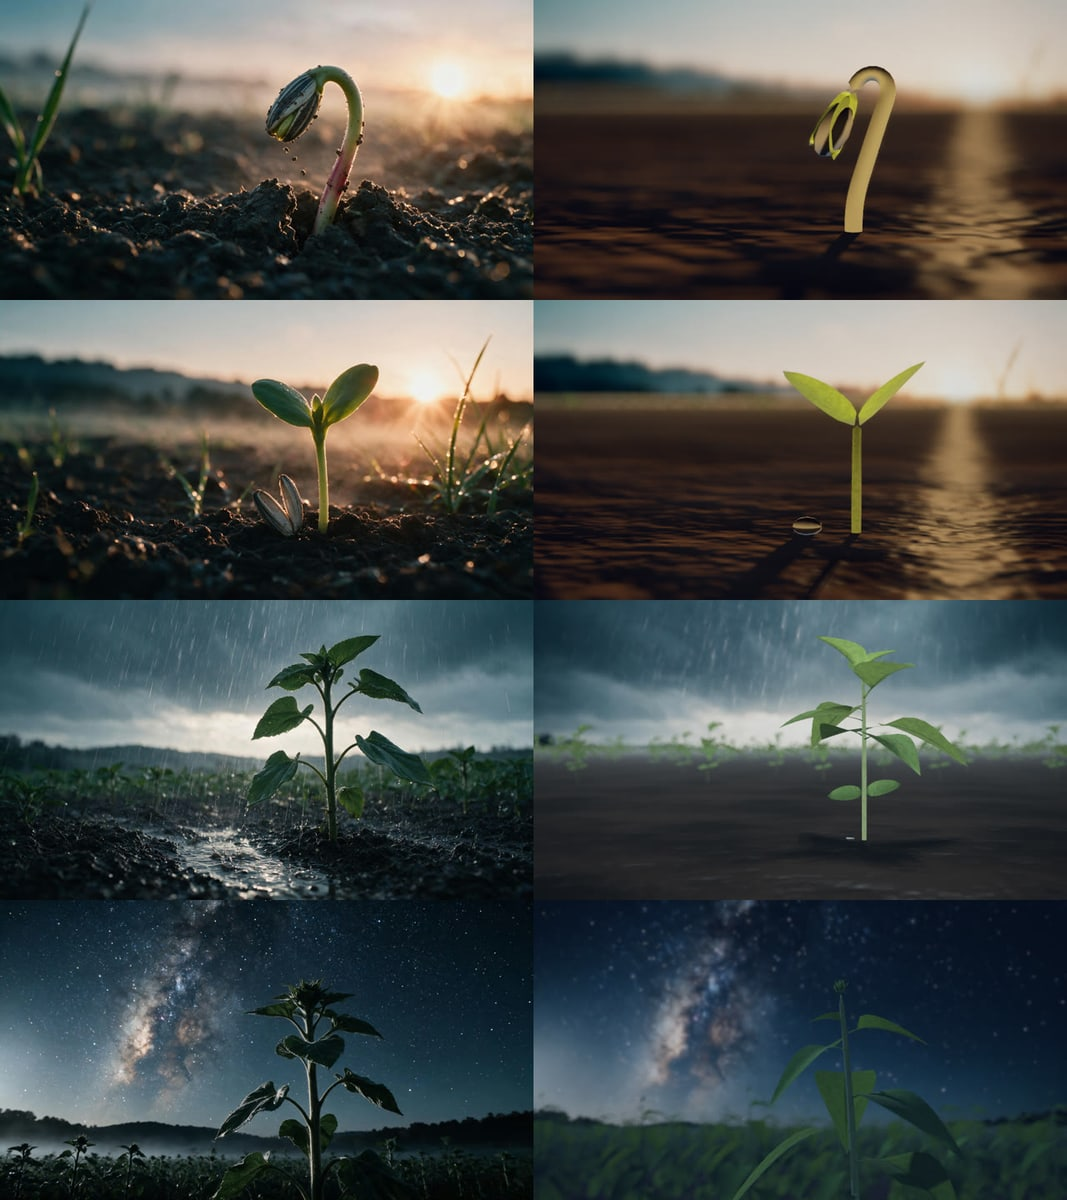
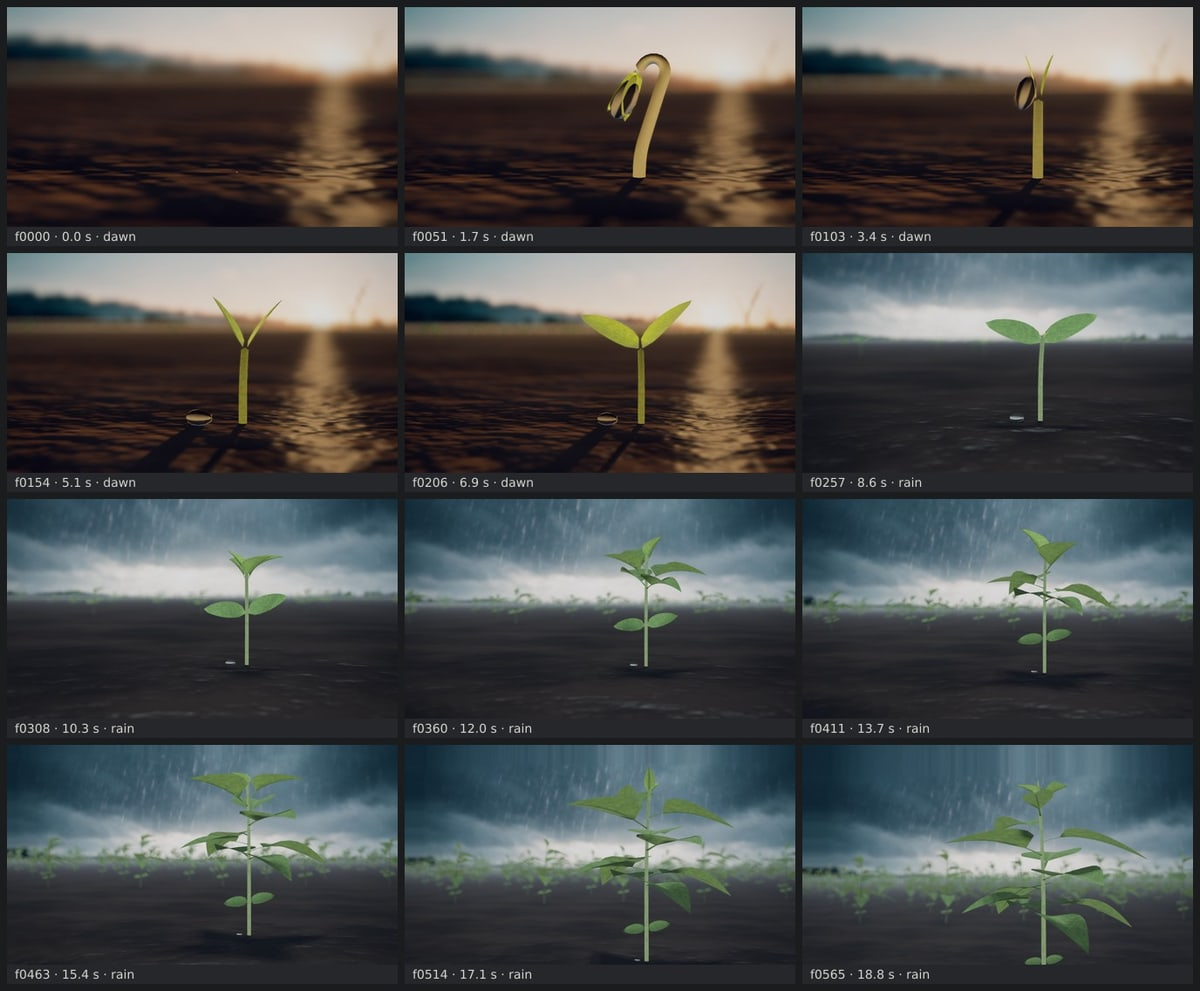
Phase 2: status 11, round 1 machine checks green

diff --git a/kit/PROGRESS.md b/kit/PROGRESS.md
@@ -14,8 +14,8 @@ The Builder's memory. Read this first in every task. Update it before every comm
 - Extensions: 0
 - Extension step: none
 - App URL: https://sunflower-film.pplx.app
-- Last push: 2026-11-21 04:16 UTC · Round 1 starts: blockout, floor round, judges 5b235aa
-- Last status: 10 · 2026-11-21 03:55 UTC · Phase 2
+- Last push: 2026-11-21 04:23 UTC · Phase 2: status 11, round 1 machine checks green
+- Last status: 11 · 2026-11-21 04:22 UTC · Phase 2 · round 1
 
 "Build" is one of `not started`, `in progress`, `complete` or `extension N in progress`. "Budget" is one of `running` or `reported`. `AGENTS.md` says what each means.
 
@@ -23,6 +23,7 @@ The Builder's memory. Read this first in every task. Update it before every comm
 
 Newest first. Each line names the pictures of one status in `out/stills/status/`, with the time and the caption, so this page shows where the film is.
 
+- 2026-11-21 04:22 UTC · status 11 · Phase 2 · round 1 · `status-1.jpg`: The film from 0 to 19 s, twelve frames in order; `status-2.jpg`: Dawn sprout, dawn seedling, rain, night: approved image left, film frame right; `status-3.jpg`: Frost, bloom opening, bloom hero, field: approved image left, film frame right
 - 2026-11-21 03:55 UTC · status 10 · Phase 2 · `status-1.jpg`: Dawn sprout, dawn seedling, rain, night: approved image left, film frame right; `status-2.jpg`: Frost, bloom opening, bloom hero, field: approved image left, film frame right
 - 2026-11-21 03:29 UTC · status 09 · Phase 2 · `status-1.jpg`: Keys 1 to 4, approved image left, film frame right: dawn-sprout, dawn-seedling, rain, night; `status-2.jpg`: Keys 5 to 8, approved image left, film frame right: frost, bloom-opening, bloom-hero, field
 - 2026-11-21 03:07 UTC · status 08 · Phase 2 · `status-1.jpg`: Keys 1 to 4, approved image left, film frame right: dawn-sprout, dawn-seedling, rain, night; `status-2.jpg`: Keys 5 to 8, approved image left, film frame right: frost, bloom-opening, bloom-hero, field
@@ -42,12 +43,12 @@ Copied from the output of `npm run clock` at every status. Working time only.
 | --- | --- | --- |
 | 0 | 1.50 h | 1.08 h |
 | 1 | 0.50 h | 0.05 h |
-| 2 | 3.50 h | 1.94 h |
+| 2 | 3.50 h | 2.39 h |
 | 3 | 9.00 h | 0.00 h |
 | 4 | 8.50 h | 0.00 h |
 | 5 | 3.00 h | 0.00 h |
 | 6 | 4.00 h | 0.00 h |
-| Whole build | 30.00 h | 3.07 h |
+| Whole build | 30.00 h | 3.52 h |
 
 Continuations and extensions are listed under this table with their own hours.
 
@@ -325,8 +326,8 @@ One entry per round, written and pushed when the round starts: number, phase, un
 
 ### Round 1 · Phase 2 · blockout · floor round
 
-- Started 2026-11-21 04:21 UTC. Judges commit `5b235aa`. Unit: none, the whole film as a blockout. Critic: R4 blockout, one fresh agent.
-- [ ] Machine checks (`npm run gate -- --phase 2 --machine`)
+- Started 2026-11-21 04:17 UTC. Judges commit `5b235aa`. Unit: none, the whole film as a blockout. Critic: R4 blockout, one fresh agent.
+- [x] Machine checks (`npm run gate -- --phase 2 --machine`): 04:20 UTC, all 12 green (G1 to G12; G12: the worst step ratio across each of the four cuts is 1.00, limit 1.5)
 - [ ] Pack (`npm run pack -- --phase 2 --round 1`)
 - [ ] R4 blockout answer in `scorecards/round-001/`
 - [ ] Fixes
@@ -369,6 +370,7 @@ One line per push: the date, the commit and what it carried. A failed push is lo
 - 2026-11-21 03:56 UTC · Phase 2: camera fit at every key, stand-in field and companion, status 10
 - 2026-11-21 04:16 UTC · Phase 2: reference board, shot list, judged frames, frost and night stand-in fixes, the field draws only what the lens can see
 - 2026-11-21 04:16 UTC · Round 1 starts: blockout, floor round, judges 5b235aa
+- 2026-11-21 04:23 UTC · Phase 2: status 11, round 1 machine checks green
 
 ## Session log
 
@@ -399,4 +401,6 @@ One entry per task: when it started, the prompt it was started with, what it did
   Pictures: Keys 1 to 4, approved image left, film frame right: dawn-sprout, dawn-seedling, rain, night; Keys 5 to 8, approved image left, film frame right: frost, bloom-opening, bloom-hero, field.
 - Status 10, 2026-11-21 03:55 UTC, Phase 2. The camera is now fitted at all eight keys by solving against measurements of the approved images, so the plant, the horizon and the sun land where each image has them (left of each pair: the approved image, right: the film frame). The field is in: 12,687 sunflowers of the same age as the plant, 8,914 of them in view in the last shot. The companion stands beside the plant, out of frame until the bloom, where its leaf tips enter at the left edge. Everything drawn is still a stand-in: shapes, colors and light are not the look yet. Next: Reference board, shot list and render budget, then the first whole-film draft and blockout round 1 with a fresh critic. Time used: 3.1 h of 30 h.
   Pictures: Dawn sprout, dawn seedling, rain, night: approved image left, film frame right; Frost, bloom opening, bloom hero, field: approved image left, film frame right.
+- Status 11, 2026-11-21 04:22 UTC, Phase 2 · round 1. Blockout round 1 has started. The machine checks are all green and the pack for the critic is rendering now. Since the last status: the frost world no longer shows the far field as a pale wall, the night plant holds its leaves up, the reference board (15 parts, 90 photographs, 4 motion studies) and the shot list are written, and the ten judged frames are listed. The first sheet shows the film from 0 to 19 s: the sprout breaks the soil, straightens, opens its seed leaves, and the cut to rain lands with the plant in the same place. Everything drawn is still a stand-in. Next: A fresh critic judges the camera move, the framing at each key, the pace of growth and the cuts. Then the fix pass and the first whole-film draft. Time used: 3.5 h of 30 h.
+  Pictures: The film from 0 to 19 s, twelve frames in order; Dawn sprout, dawn seedling, rain, night: approved image left, film frame right; Frost, bloom opening, bloom hero, field: approved image left, film frame right.
 

diff --git a/out/stills/status/STATUS.md b/out/stills/status/STATUS.md
@@ -1,10 +1,11 @@
-# Status 10
+# Status 11
 
-2026-11-21 03:55 UTC
+2026-11-21 04:22 UTC
 
-- Status 10 · Phase 2. The camera is now fitted at all eight keys by solving against measurements of the approved images, so the plant, the horizon and the sun land where each image has them (left of each pair: the approved image, right: the film frame). The field is in: 12,687 sunflowers of the same age as the plant, 8,914 of them in view in the last shot. The companion stands beside the plant, out of frame until the bloom, where its leaf tips enter at the left edge. Everything drawn is still a stand-in: shapes, colors and light are not the look yet.
-- Next: Reference board, shot list and render budget, then the first whole-film draft and blockout round 1 with a fresh critic. Time used: 3.1 h of 30 h.
+- Status 11 · Phase 2 · round 1. Blockout round 1 has started. The machine checks are all green and the pack for the critic is rendering now. Since the last status: the frost world no longer shows the far field as a pale wall, the night plant holds its leaves up, the reference board (15 parts, 90 photographs, 4 motion studies) and the shot list are written, and the ten judged frames are listed. The first sheet shows the film from 0 to 19 s: the sprout breaks the soil, straightens, opens its seed leaves, and the cut to rain lands with the plant in the same place. Everything drawn is still a stand-in.
+- Next: A fresh critic judges the camera move, the framing at each key, the pace of growth and the cuts. Then the fix pass and the first whole-film draft. Time used: 3.5 h of 30 h.
 - Review page: https://sunflower-film.pplx.app/review.html
 
-- `status-1.jpg`: Dawn sprout, dawn seedling, rain, night: approved image left, film frame right
-- `status-2.jpg`: Frost, bloom opening, bloom hero, field: approved image left, film frame right
+- `status-1.jpg`: The film from 0 to 19 s, twelve frames in order
+- `status-2.jpg`: Dawn sprout, dawn seedling, rain, night: approved image left, film frame right
+- `status-3.jpg`: Frost, bloom opening, bloom hero, field: approved image left, film frame right
